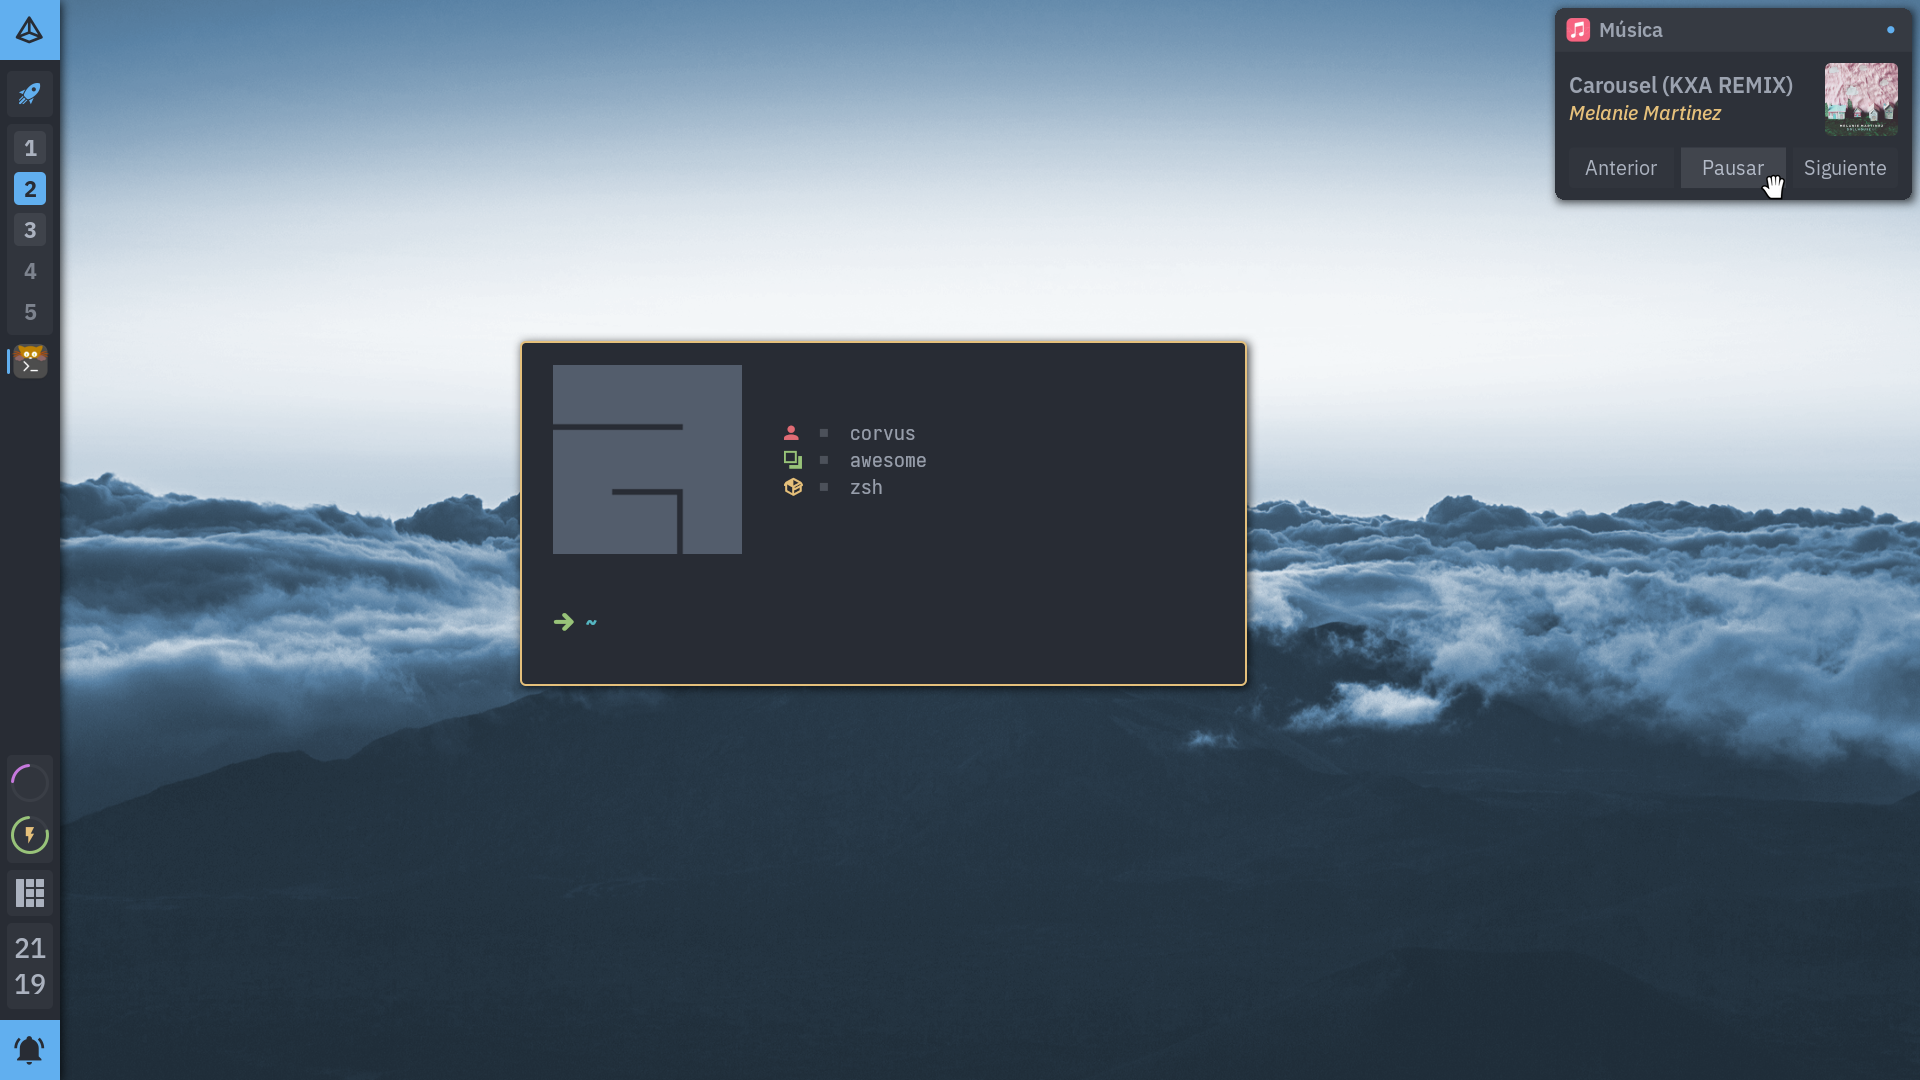
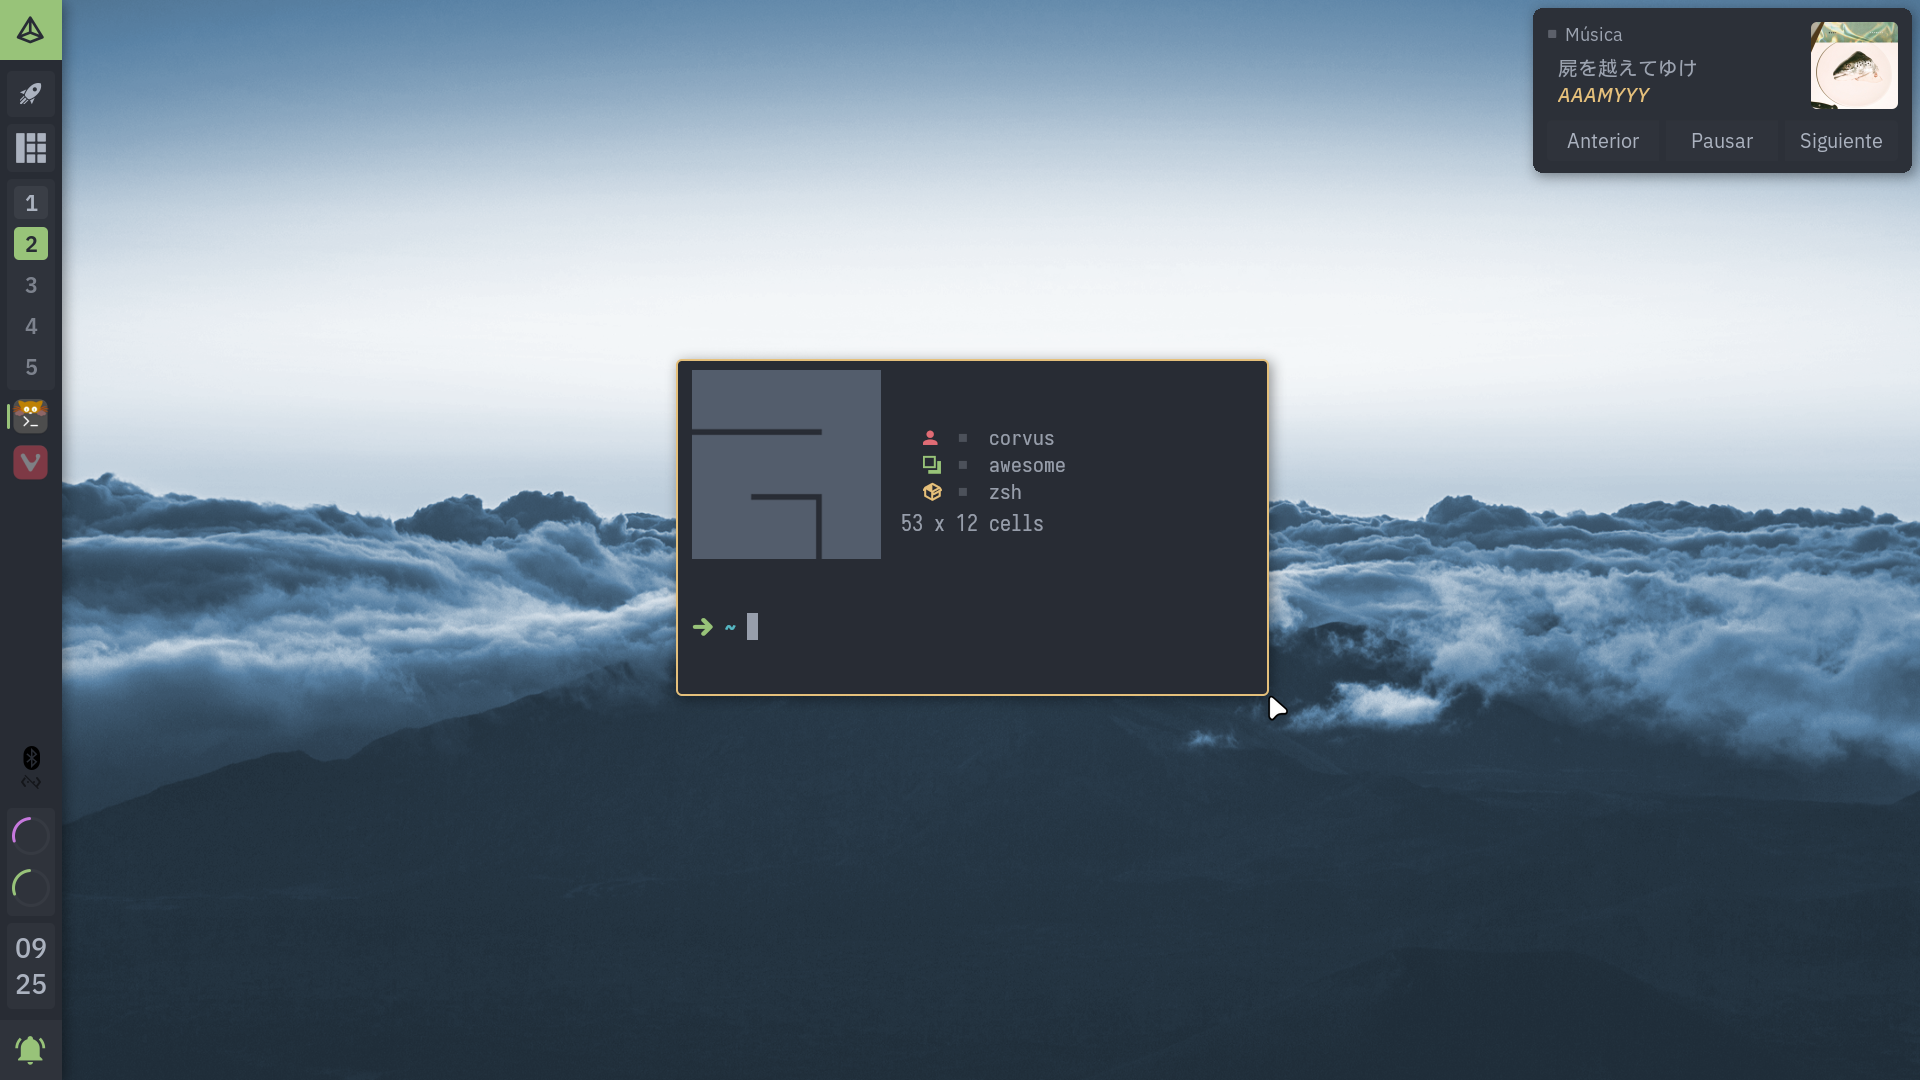
README.md and new screenshots

diff --git a/README.md b/README.md
@@ -7,7 +7,7 @@ Repositorio de configuración del entorno AwesomeWM y otros programas
 - **WM:** AwesomeWM
 - **Notificaciones:** Naughty
 - **Terminal:** Kitty
-- **Web:** Firefox
+- **Web:** Vivaldi
 - **Música:** MPD
 - **Música (CLI):** Ncmpcpp & mpc
 
@@ -25,26 +25,38 @@ Repositorio de configuración del entorno AwesomeWM y otros programas
 | ----------------------------------------------------------------------------------------------------------------------------------------------- |
 | <a href="#--------"><img src="https://raw.githubusercontent.com/Lik-e/Dotfiles/main/.github/screenshots/03.png" alt="bottom panel preview"></a> |
 
-| <b>Pantalla de salida</b>                                                                                                                       |
+| <b>Panel de notificaciones</b>                                                                                                                  |
 | ----------------------------------------------------------------------------------------------------------------------------------------------- |
 | <a href="#--------"><img src="https://raw.githubusercontent.com/Lik-e/Dotfiles/main/.github/screenshots/04.png" alt="bottom panel preview"></a> |
 
-| <b>Pantalla de bloqueo</b>                                                                                                                      |
+| <b>Distribucion de ventanas</b>                                                                                                                 |
 | ----------------------------------------------------------------------------------------------------------------------------------------------- |
 | <a href="#--------"><img src="https://raw.githubusercontent.com/Lik-e/Dotfiles/main/.github/screenshots/05.png" alt="bottom panel preview"></a> |
+
+| <b>Modo claro</b>                                                                                                                               |
+| ----------------------------------------------------------------------------------------------------------------------------------------------- |
+| <a href="#--------"><img src="https://raw.githubusercontent.com/Lik-e/Dotfiles/main/.github/screenshots/06.png" alt="bottom panel preview"></a> |
+
+| <b>Pantalla de salida</b>                                                                                                                       |
+| ----------------------------------------------------------------------------------------------------------------------------------------------- |
+| <a href="#--------"><img src="https://raw.githubusercontent.com/Lik-e/Dotfiles/main/.github/screenshots/07.png" alt="bottom panel preview"></a> |
+
+| <b>Pantalla de bloqueo</b>                                                                                                                      |
+| ----------------------------------------------------------------------------------------------------------------------------------------------- |
+| <a href="#--------"><img src="https://raw.githubusercontent.com/Lik-e/Dotfiles/main/.github/screenshots/08.png" alt="bottom panel preview"></a> |
 
 # ToDo
 
 #### AwesomeWM
 
 - [ ] Implementación y re-diseño de ajustes rápidos
-  - [X] Agregar alternador de modo oscuro/claro
-  - [X] Agregar boton de captura de Pantalla
-    - [X] Captura instantánea
-    - [X] Menu de selección
-      - [X] Pantalla completa
-      - [X] Seleccion
-      - [X] Ventana
+  - [x] Agregar alternador de modo oscuro/claro
+  - [x] Agregar boton de captura de Pantalla
+    - [x] Captura instantánea
+    - [x] Menu de selección
+      - [x] Pantalla completa
+      - [x] Seleccion
+      - [x] Ventana
   - [x] Agregar boton de internet
     - [x] Agregar libreria de internet (señales)
   - [ ] Agregar boton de bluetooth
@@ -52,7 +64,7 @@ Repositorio de configuración del entorno AwesomeWM y otros programas
 - [ ] Agregar barra de titulo para las ventanas
   - [ ] Agregar alternador de modo flotante (ajustes rápidos)
 - [ ] Agregar calendario
-- [ ] Agregar selector de distribucion de ventanas
+- [X] Agregar selector de distribucion de ventanas
 - [ ] Agregar pizarron de estado
 - [x] Pantalla de bloqueo
 - [x] Menu de apagado
@@ -62,6 +74,7 @@ Repositorio de configuración del entorno AwesomeWM y otros programas
 
 #### Other
 
+- [ ] Agregar configuración de nvchad
 - [ ] Agregar rc de picom al script
 - [ ] Agregar compilacion automatica de picom-ibhagwan
 - [ ] Agregar compilacion automatica de awesome-git en el script
